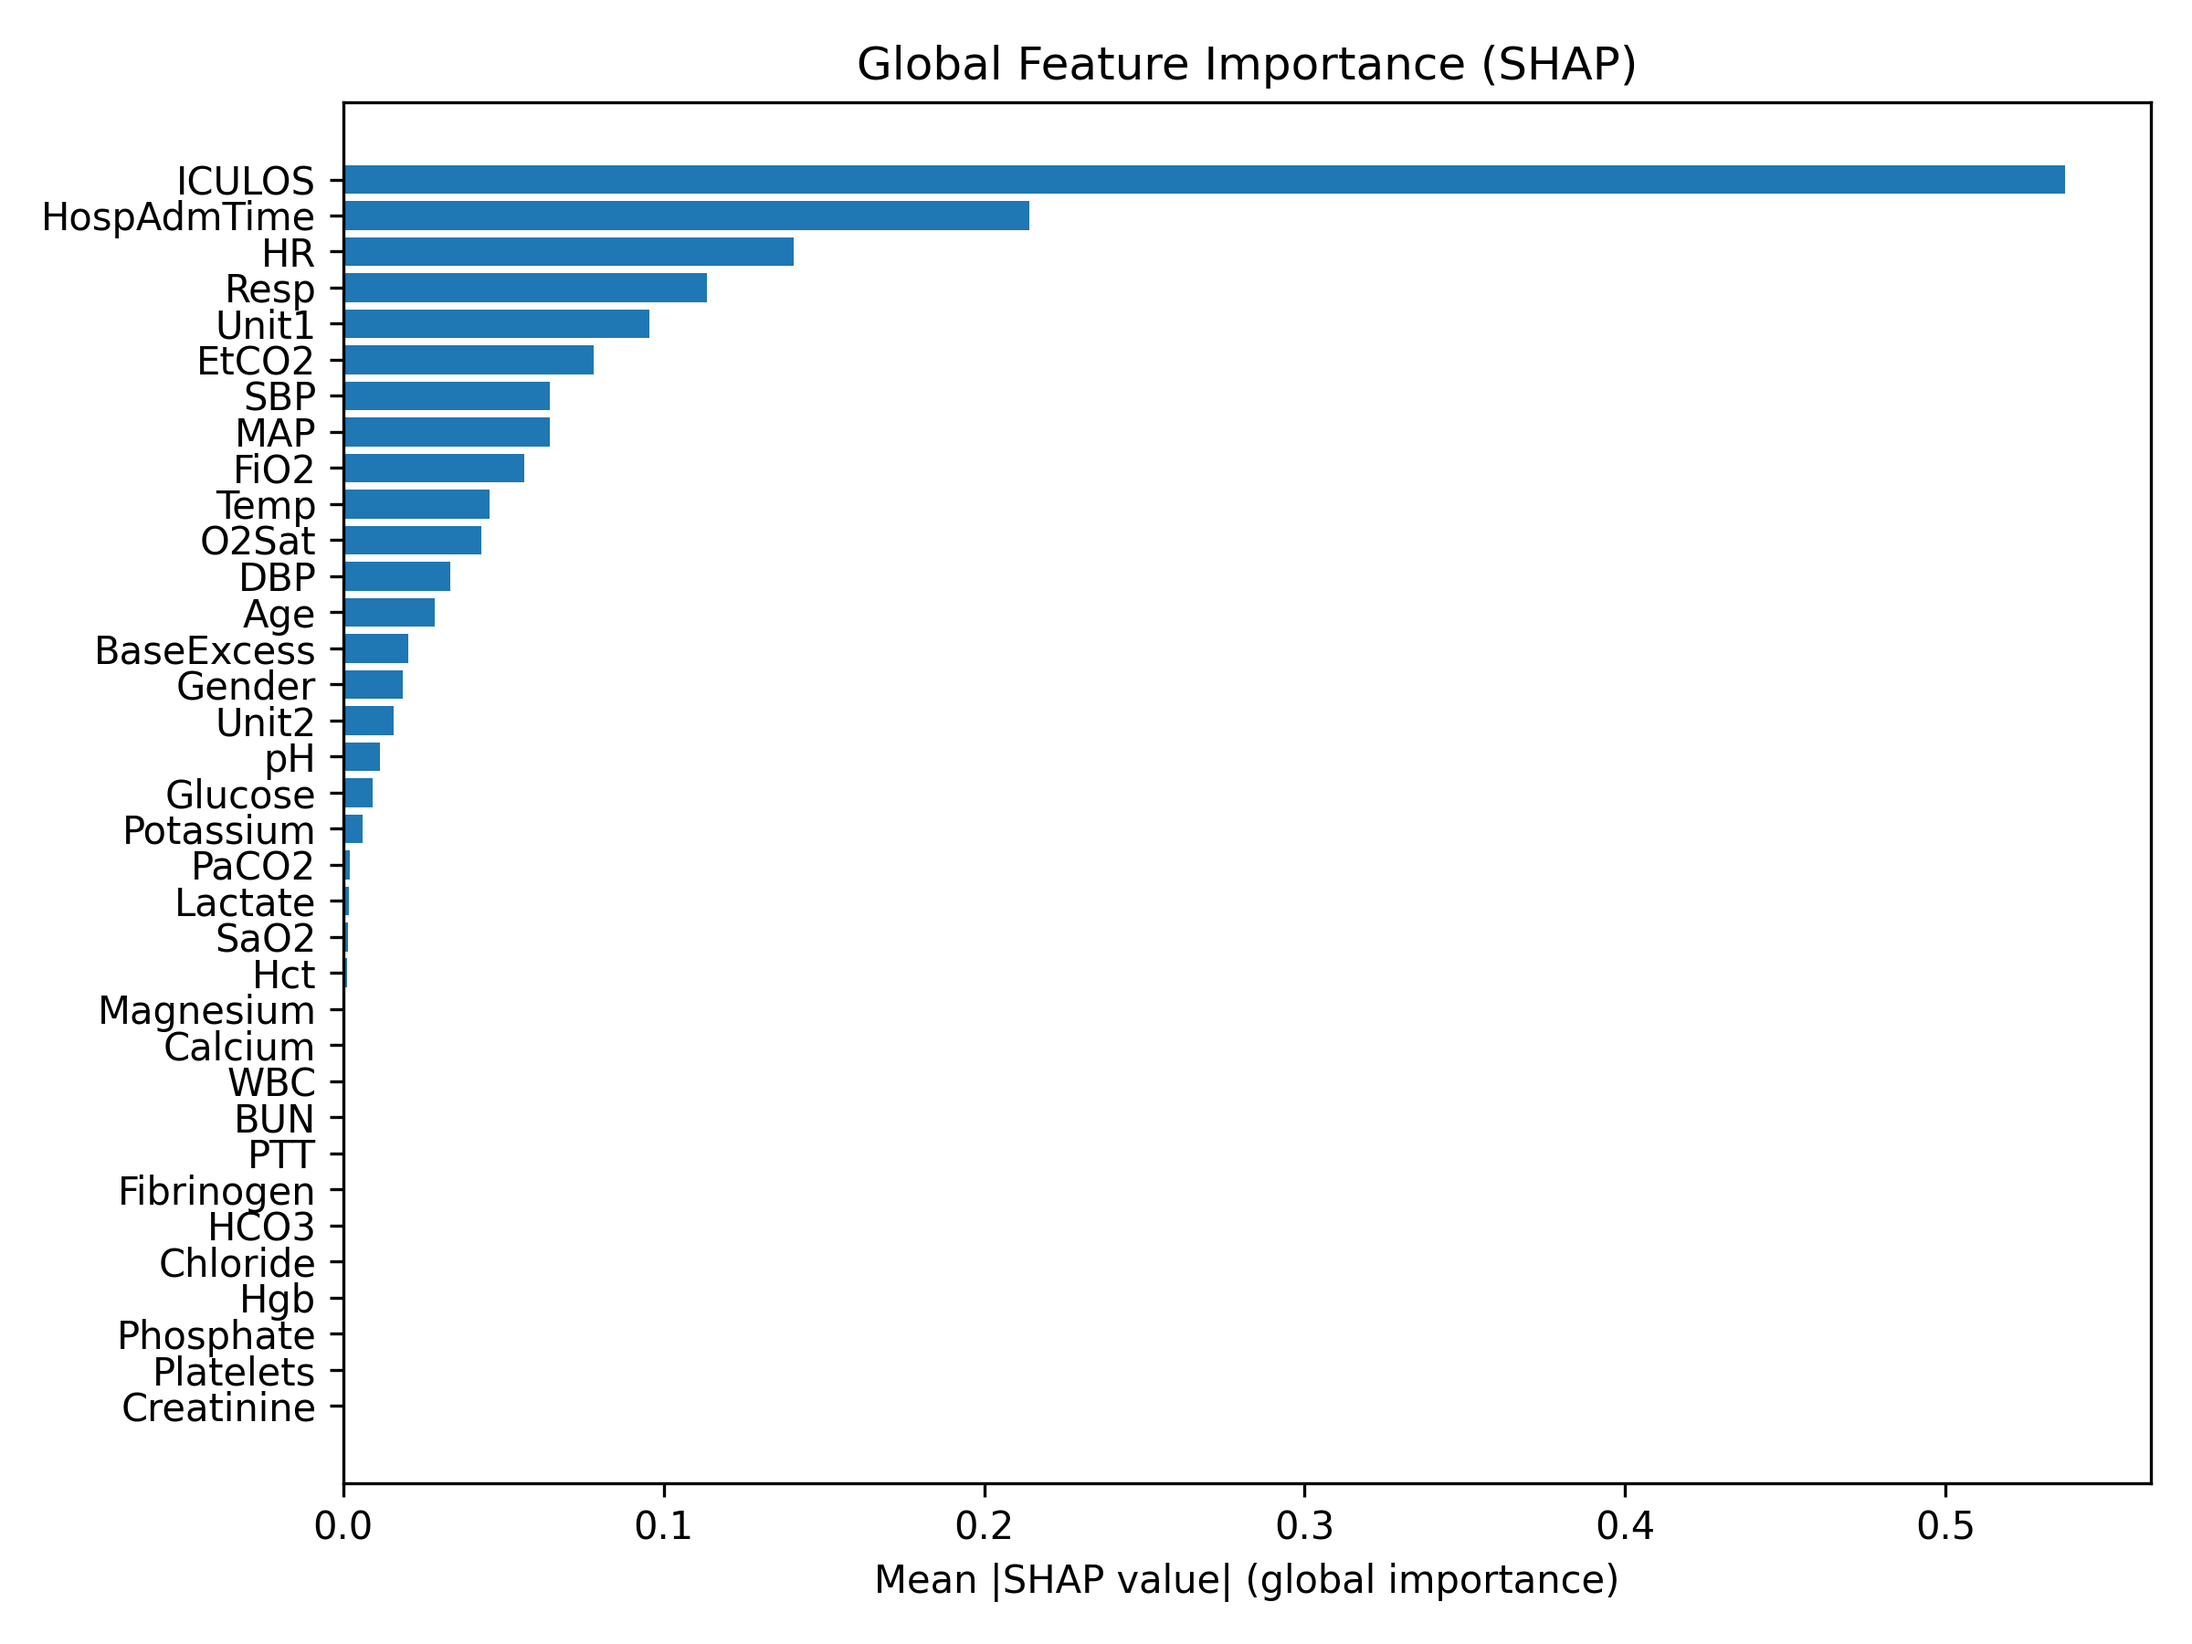
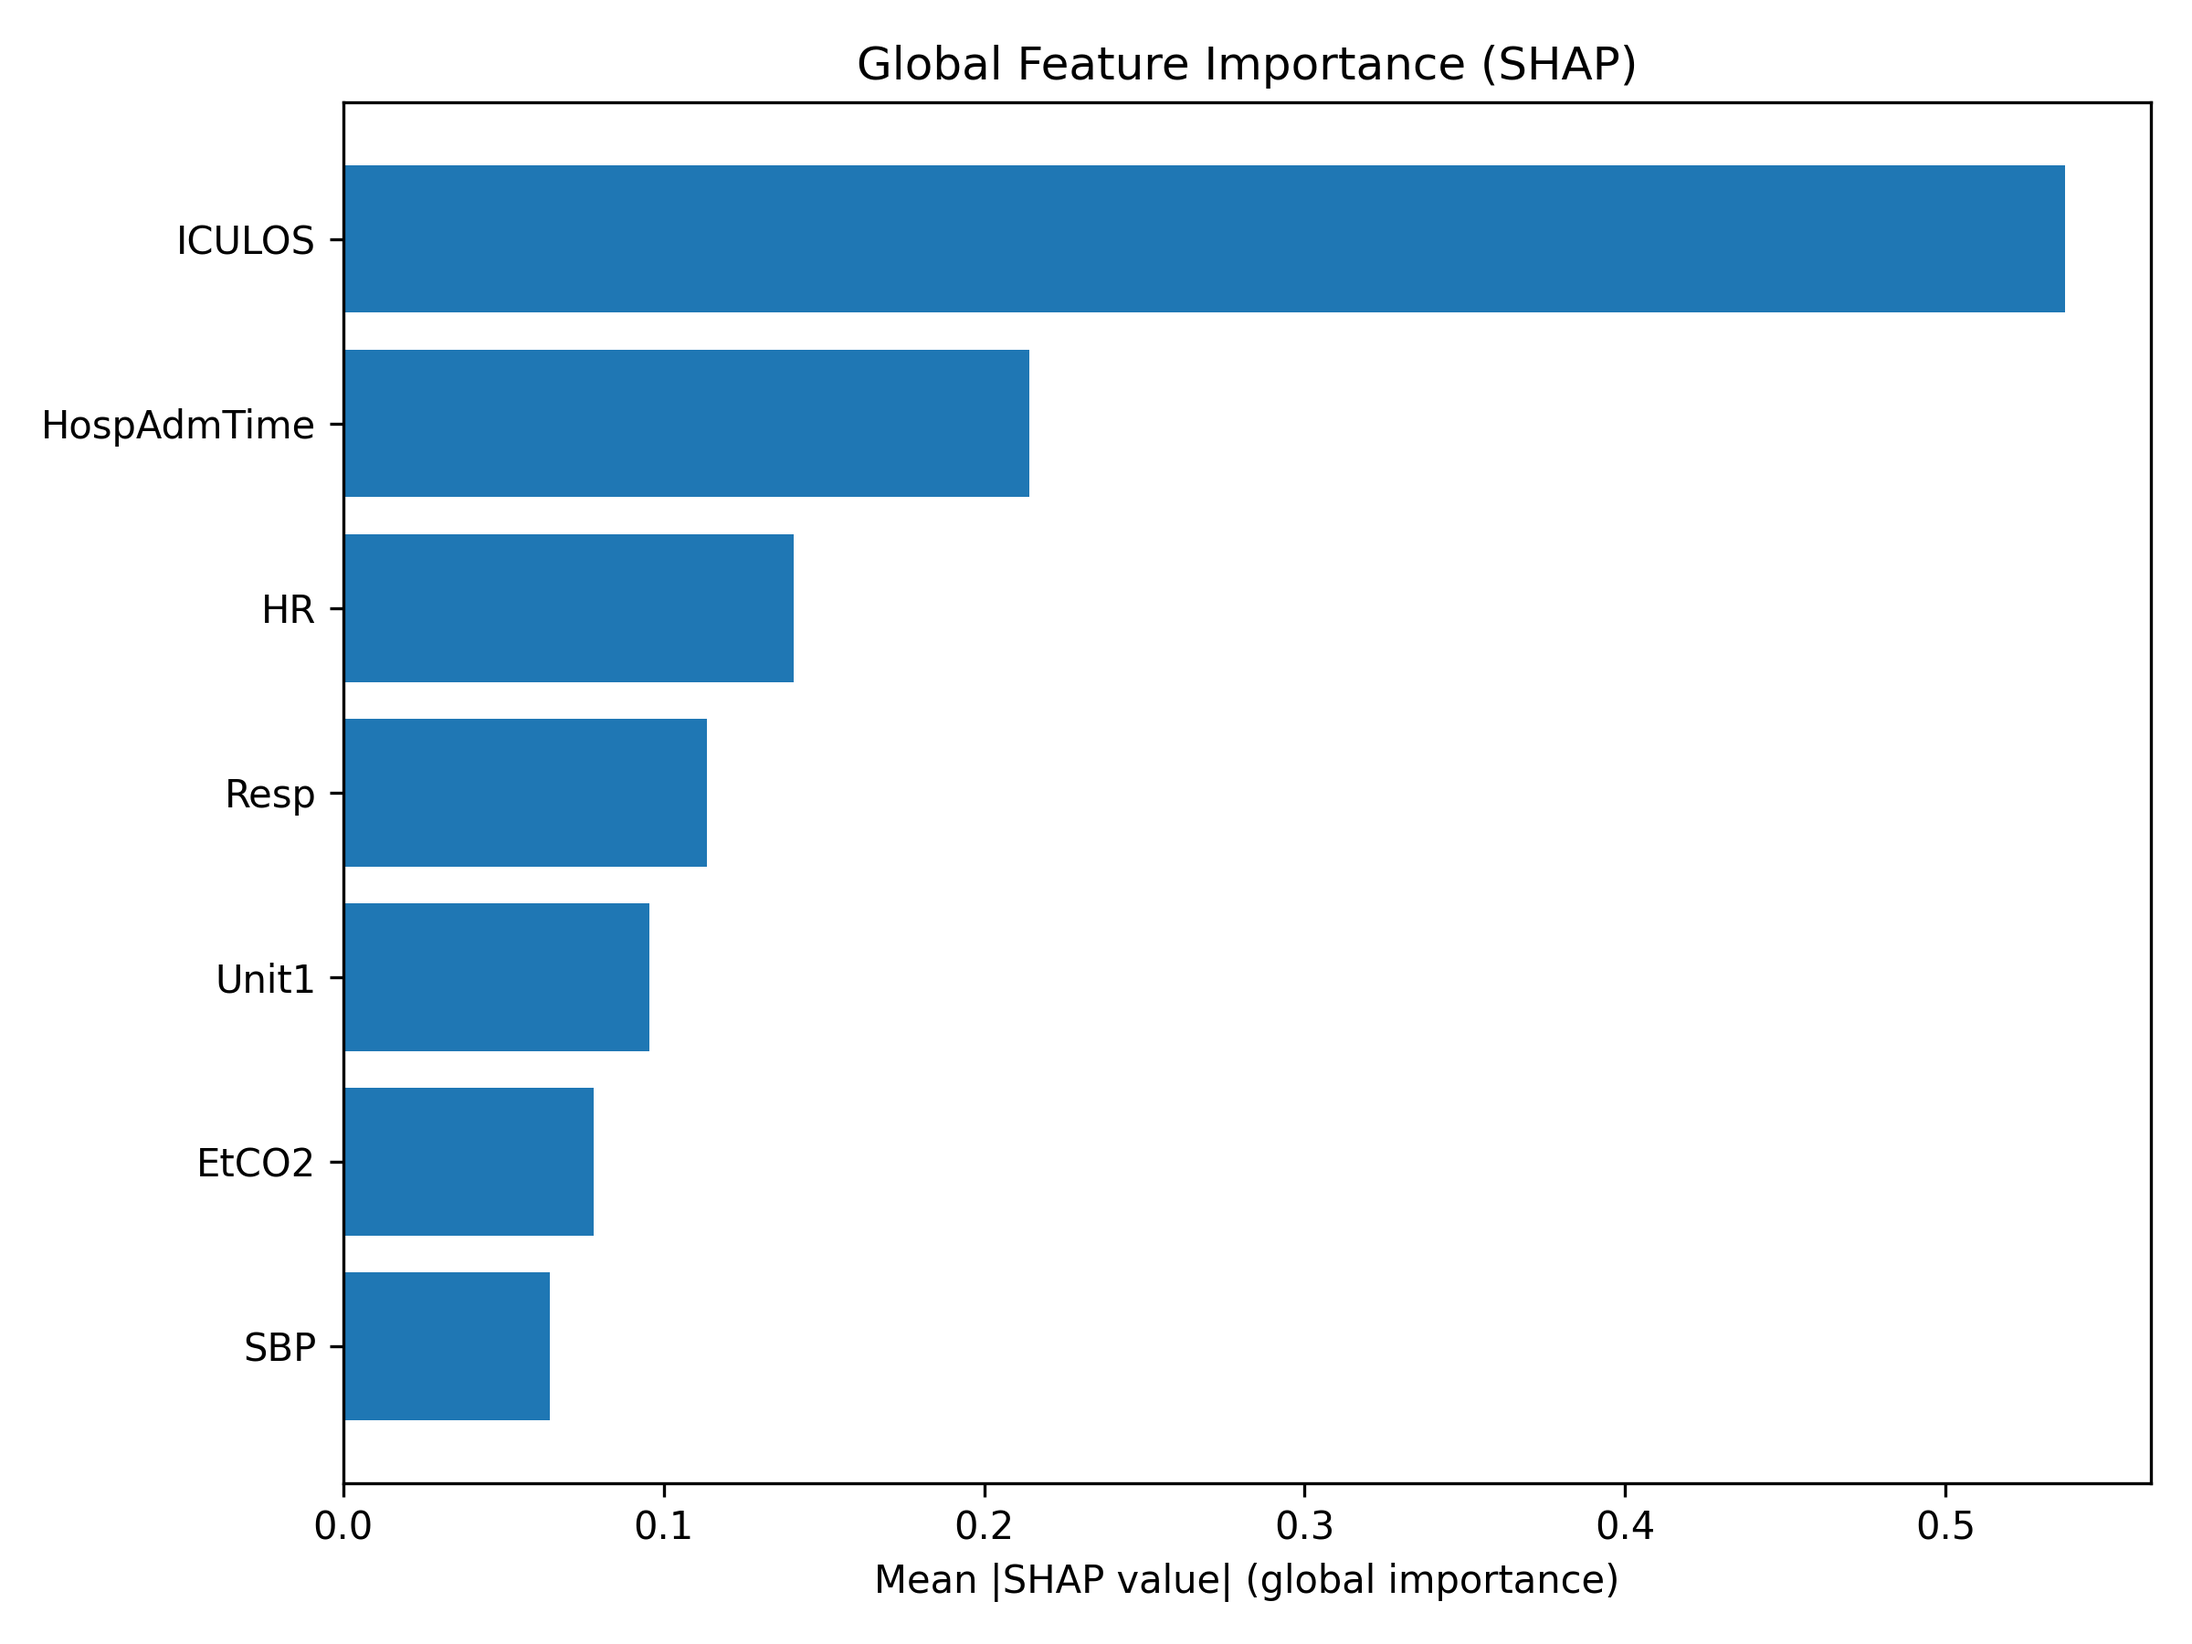
SHAP

Changed region(s): [[0.0312, 0.0933, 0.9688, 0.8711]]

diff --git a/src/evaluation/shap_explain.py b/src/evaluation/shap_explain.py
@@ -18,7 +18,7 @@ from sklearn.model_selection import train_test_split
 DATA_PATH = "data/processed/sepsis_final.csv"
 TARGET = "EarlySepsisLabel"
 OUTPUT_DIR = "logs/plots"
-
+TOP_N_FEATURES = 7   # 🔥 change to 5–9 if needed
 MAX_SHAP_SAMPLES = 2000   # 🔥 IMPORTANT (speed + stability)
 
 os.makedirs(OUTPUT_DIR, exist_ok=True)
@@ -72,9 +72,14 @@ def shap_bar_plot():
     mean_abs_shap = np.abs(shap_values).mean(axis=0)
 
     shap_df = pd.DataFrame({
-        "Feature": X_shap.columns,
-        "Mean |SHAP|": mean_abs_shap
-    }).sort_values(by="Mean |SHAP|", ascending=True)
+       "Feature": X_shap.columns,
+       "Mean |SHAP|": mean_abs_shap
+    }).sort_values(by="Mean |SHAP|", ascending=False)
+
+# 🔥 Keep only top N features
+    shap_df = shap_df.head(TOP_N_FEATURES).sort_values(by="Mean |SHAP|", ascending=True)
+
+
 
     plt.figure(figsize=(8, 6))
     plt.barh(shap_df["Feature"], shap_df["Mean |SHAP|"])
